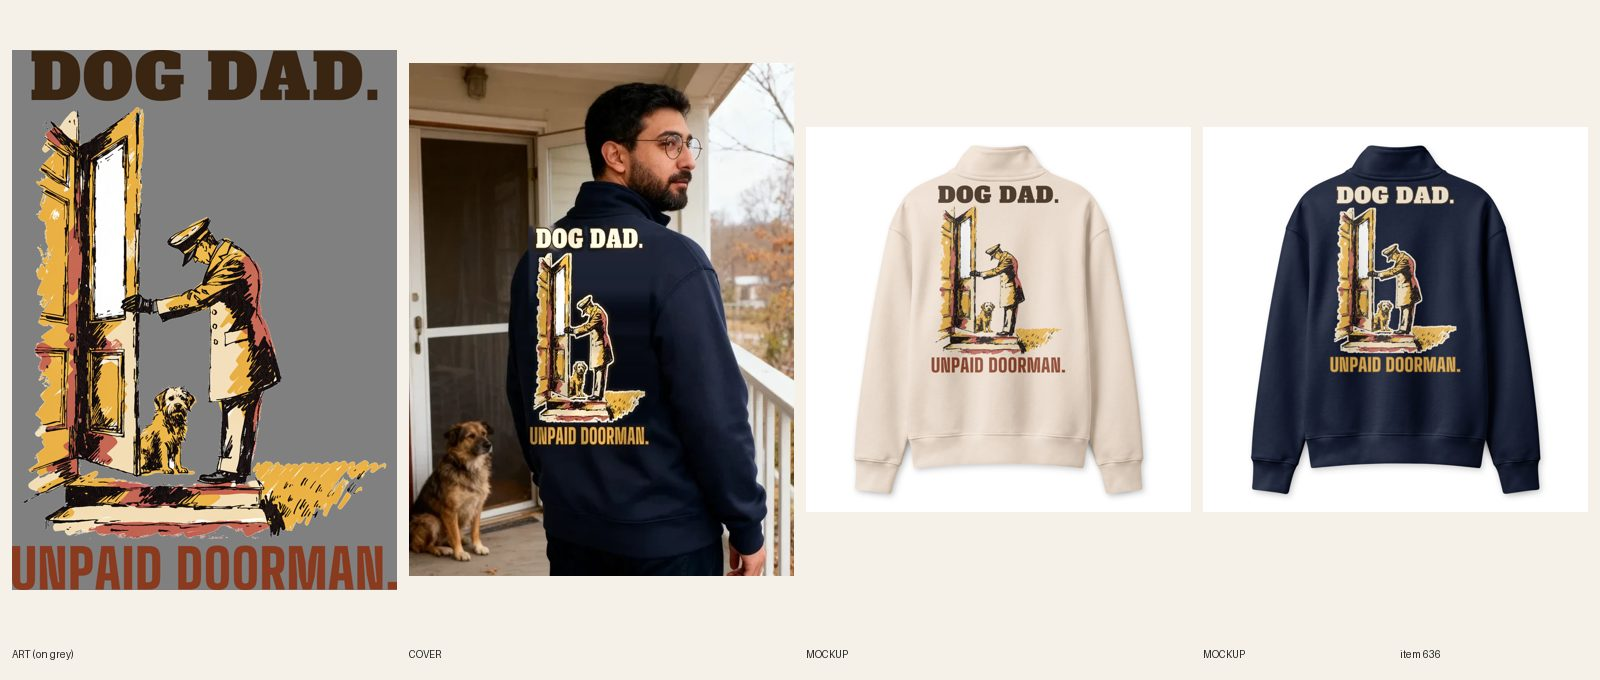
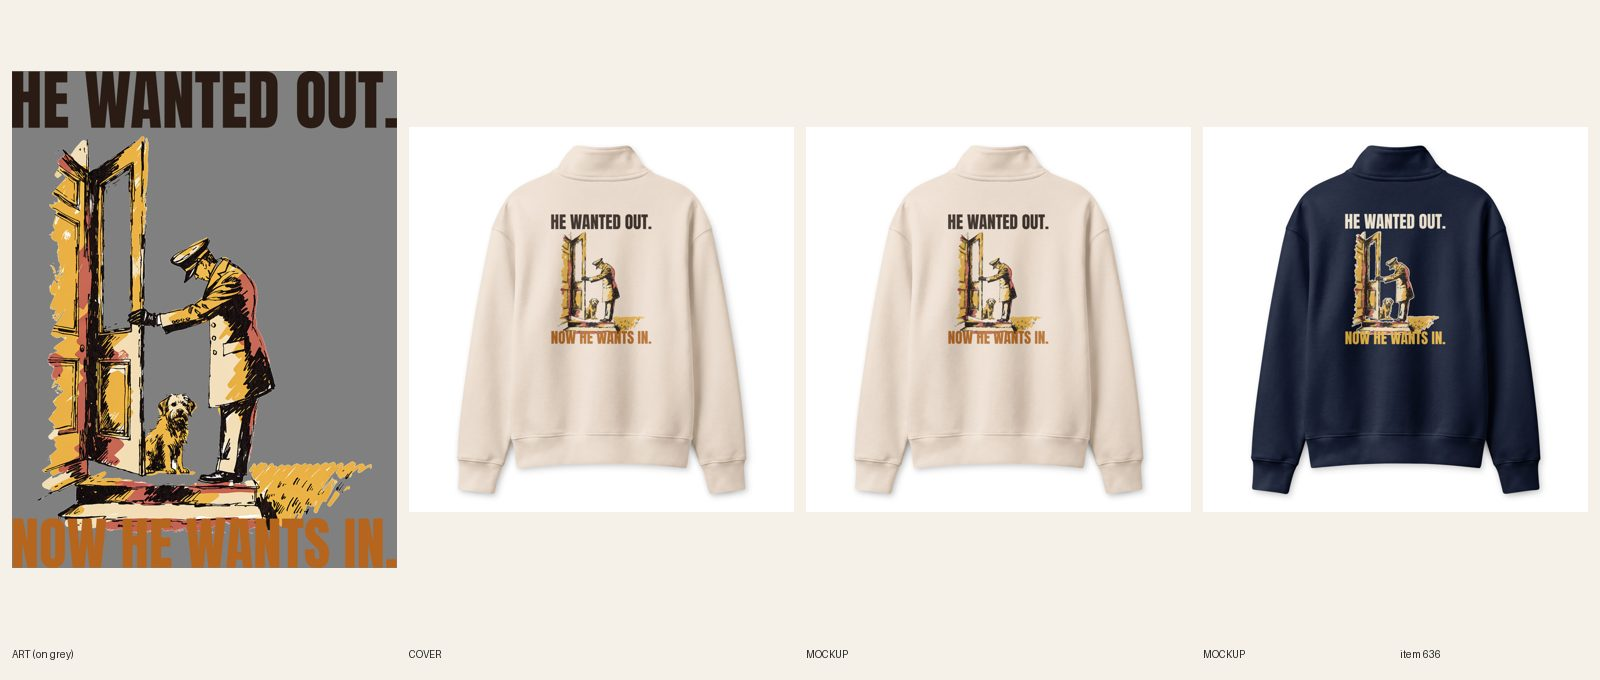
[C] review 636 (redo)
Claude-Session: https://claude.ai/code/session_01CCHcDj8LcJJ8qUPtKE3cvn

Changed region(s): [[0.0, 0.0618, 0.5, 0.8647], [0.8125, 0.2471, 0.9375, 0.5559], [0.5625, 0.2471, 0.6875, 0.5559]]

diff --git a/scripts/c-finish.py b/scripts/c-finish.py
@@ -4,12 +4,12 @@ Verifies every synced variant has one front file, makes the review sheet, sets s
 import os, sys, json, glob, subprocess, urllib.request
 i, pid, art, m1, m2, plog, itxt = sys.argv[1:8]
 r = json.load(urllib.request.urlopen(urllib.request.Request(f'https://api.printful.com/sync/products/{pid}', headers={'Authorization': 'Bearer ' + os.environ['PRINTFUL_TOKEN'], 'User-Agent': 'gtc'}), timeout=60))['result']
-s = {tuple(sorted((f['type'], f['id']) for f in v['files'] if f['type'] in ('front', 'default', 'back', 'embroidery_chest_center'))) for v in r['sync_variants']}
+s = {tuple(sorted((f['type'], f['id']) for f in v['files'] if f['type'] in ('front', 'default', 'back', 'embroidery_chest_center', 'back_large_dtf'))) for v in r['sync_variants']}
 print('distinct file sets:', s, 'variants', len(r['sync_variants']), 'synced', r['sync_product']['synced'])
 exp = [int(x) for x in os.environ.get('EXPECT', '').split(',') if x]
 if exp:
-    ids = {f['id'] for v in r['sync_variants'] for f in v['files'] if f['type'] in ('front', 'default', 'back', 'embroidery_chest_center')}
-    bad = [v['name'] for v in r['sync_variants'] if not any(f['id'] in exp for f in v['files'] if f['type'] in ('front', 'default', 'back', 'embroidery_chest_center'))]
+    ids = {f['id'] for v in r['sync_variants'] for f in v['files'] if f['type'] in ('front', 'default', 'back', 'embroidery_chest_center', 'back_large_dtf')}
+    bad = [v['name'] for v in r['sync_variants'] if not any(f['id'] in exp for f in v['files'] if f['type'] in ('front', 'default', 'back', 'embroidery_chest_center', 'back_large_dtf'))]
     if bad: sys.exit('NOT RELINKED YET: ' + ', '.join(bad))
 subprocess.run([sys.executable, 'scripts/review-sheet.py', i, art, m1, m1, m2], check=True)
 f = glob.glob(f'docs/pipeline/{i}-*.md')[0]; L = open(f).read().split('\n'); L[0] = 'status: REVIEW'

diff --git a/docs/pipeline/636-dog-dad-half-zip-unpaid-doorman.md b/docs/pipeline/636-dog-dad-half-zip-unpaid-doorman.md
@@ -1,4 +1,4 @@
-status: BUILDING [C] 2026-10-20 10:18
+status: REVIEW
 shopify: gid://shopify/Product/15364938563888
 lane: C
 type: twin
@@ -29,3 +29,4 @@ kd: 32
 - 2026-10-18 08:39 UTC builder [C]: Printful files verified 14/14 (7 Dust: back_large_dtf 1088769889 + chest_left_dtf 1088769514; 7 Navy: back_large_dtf 1088677149 + chest_left_dtf 1088769517); REVIEW.
 - 2026-10-18 09:22 UTC director: LIVE. approved from docs/review/636.jpg (back composite clean, no patch past the garment). ACTIVE + Online Store/Headless/Google & YouTube, audit --handle PASS (0 warn).
 - 2026-10-18 17:22 UTC director: QUALITY RESET grade C (new line + type), REDO. The product stays ACTIVE (same handle, URL, title keyword). 1. Line (R3.12, quality-reset 'Lines'): "Dog Dad. / Unpaid Doorman.": Noun + mild aside pattern; amusing but not a 3-second laugh. Write 5 candidates, keep the one a stranger laughs at in 3 seconds without backstory; kill lines that only describe the picture; if none of the 5 is funny, PARK it. 2. Quality reset type bar (docs/backlog/quality-reset.md, 'The new bar'): headline at least 90% of the art width, heavy, colors pulled from the art; second line at least 45% of the headline's height, never a thin script on a dark or mid garment; use the lettering as a shape (arch, stacked lockup, words breaking into the art), not a plain bar above and a script line below; no font used on more than 1 in 6 of the last 30 designs. 3. Keep the art if it carries the new line, else one new illustration (R4/R5). New print means a new cover per R6.10, copy line one rewritten for the new joke (R8.3), and a fresh review sheet (R7.7). While quality-reset.md says PAUSED, only lane A builds, and only the samples step 2 names.
+- 2026-10-20 10:24 UTC builder [C]: REDO new line + type, ported from the twin source (title card 7i done). #549, the tee this half zip twins, was redone by lane B and is at REVIEW: HE WANTED OUT. / NOW HE WANTS IN. (5 candidates there, compared with the cropped-hoodie bar), Anton, the dog at the open door is the proof. Twins carry the design's line (R3.9), so this half zip reuses #549's two redone prints instead of choosing a second line. Measured ink widths (from #549's log, card 7h): headline 2880 px / punch 2880 px = 100% (the punch letters are shorter but equally wide; both lines span the print). Light-file (R5.3.8): Dust (a light color) takes #549's dark-ink file 1090296859 (dark brown + rust, no halo; docs/print-files/636-v2-door-dust.png, replaces the old brick-recolored mustard line), Navy takes #549's cream-and-mustard file 1090296868 with the cream halo (docs/print-files/636-v2-door-navy.png); logged: light file Dust on file 1090296859, headline fill dark brown. Back print 2895 x 3767 / 3740, DTF back_large placement unchanged; the small chest copy is the door scene without words, unchanged (dust 1088769514 / navy 1088769517), so nothing on the chest changes. 14/14 relinked on back_large_dtf (verified on the API). Back mockups (v2 flat back style 30772) replaced in place on both colors and checked against the Shopify CDN (mean pixel diff under 0.3). Title set to "Men's Dog Dad – He Wanted Out, Now He Wants In Half Zip" (handle unchanged); copy, FAQ and SEO rewritten. Handle in retired-covers.json (cover shows the old words). fal $0.

diff --git a/docs/intake-log.md b/docs/intake-log.md
@@ -30,6 +30,7 @@ RUNNING lane B since 2026-10-20 09:02 UTC
 2026-10-20 07:44 UTC — [B] Builder run: REDO round 3 of #455 Unisex Hanukkah Lost My Gelt crewneck (dreidel face marks painted out, Navy file 1090236634 + Sport Grey file 1090236680, FW 1650 TOP 0, 12/12 relinked, 2 fronts replaced in place) and #469 Women's Christmas embroidered crewneck (new line BOOKED / THROUGH JANUARY., headline 2197 / punch 2197 px, Sand file 1090237592 + Navy file 1090237605, 12/12 synced, title/SEO/copy/alts updated). Both REVIEW. #498 left for director (R3.14 note). fal $0.
 2026-10-20 08:00 UTC — [E] Builder run: redid #608 Women's Pickleball tee (line + type: POLITE SMILE. / PERSONAL VENDETTA., same serene-lady art, Bevan, dark-ink file on 5 light colors, 30/30 synced). REVIEW. fal $0.
 RUNNING lane C since 2026-10-20 07:00 UTC
+2026-10-20 10:24 UTC — [C] Builder run: redid #636 Men's Dog Dad half zip (twin of #549: HE WANTED OUT. / NOW HE WANTS IN., Dust dark-ink file 1090296859 + Navy cream file 1090296868, chest copy unchanged, 14/14 relinked on the DTF back placement, back mockups replaced, title + copy + SEO updated). REVIEW. fal $0.
 2026-10-20 10:18 UTC — [C] Builder run: redid #572 Women's Nurse embroidered hoodie (twin of #492: AWAKE. / REGRETTABLY. embroidery, navy thread file 1090206171, 12/12 synced on the chest placement, 2 fronts replaced in place, title + copy + SEO updated). REVIEW. fal $0.
 2026-10-20 10:14 UTC — [C] Builder run: redid #468 Women's Embroidered frog hoodie (new line + type: NOT ON FIRE. / THAT'S A WIN. stitched caps 0.39/0.36 in, Sand kelly-green file 1090293430 + Navy white file 1090293438, 12/12 relinked on the chest embroidery placement, 2 fronts replaced in place, title + copy + SEO updated). REVIEW. fal $0.
 2026-10-20 10:09 UTC — [C] Builder run: redid #553 Unisex Christian ghost hoodie (twin of #499: HOLY GHOST, / FRIENDLY EDITION. and the new friendly-ghost art, Navy + Black on file 1090291345, FW 1500 TOP 0, 12/12 relinked, 2 fronts replaced in place, title + copy + SEO updated). REVIEW. fal $0.
